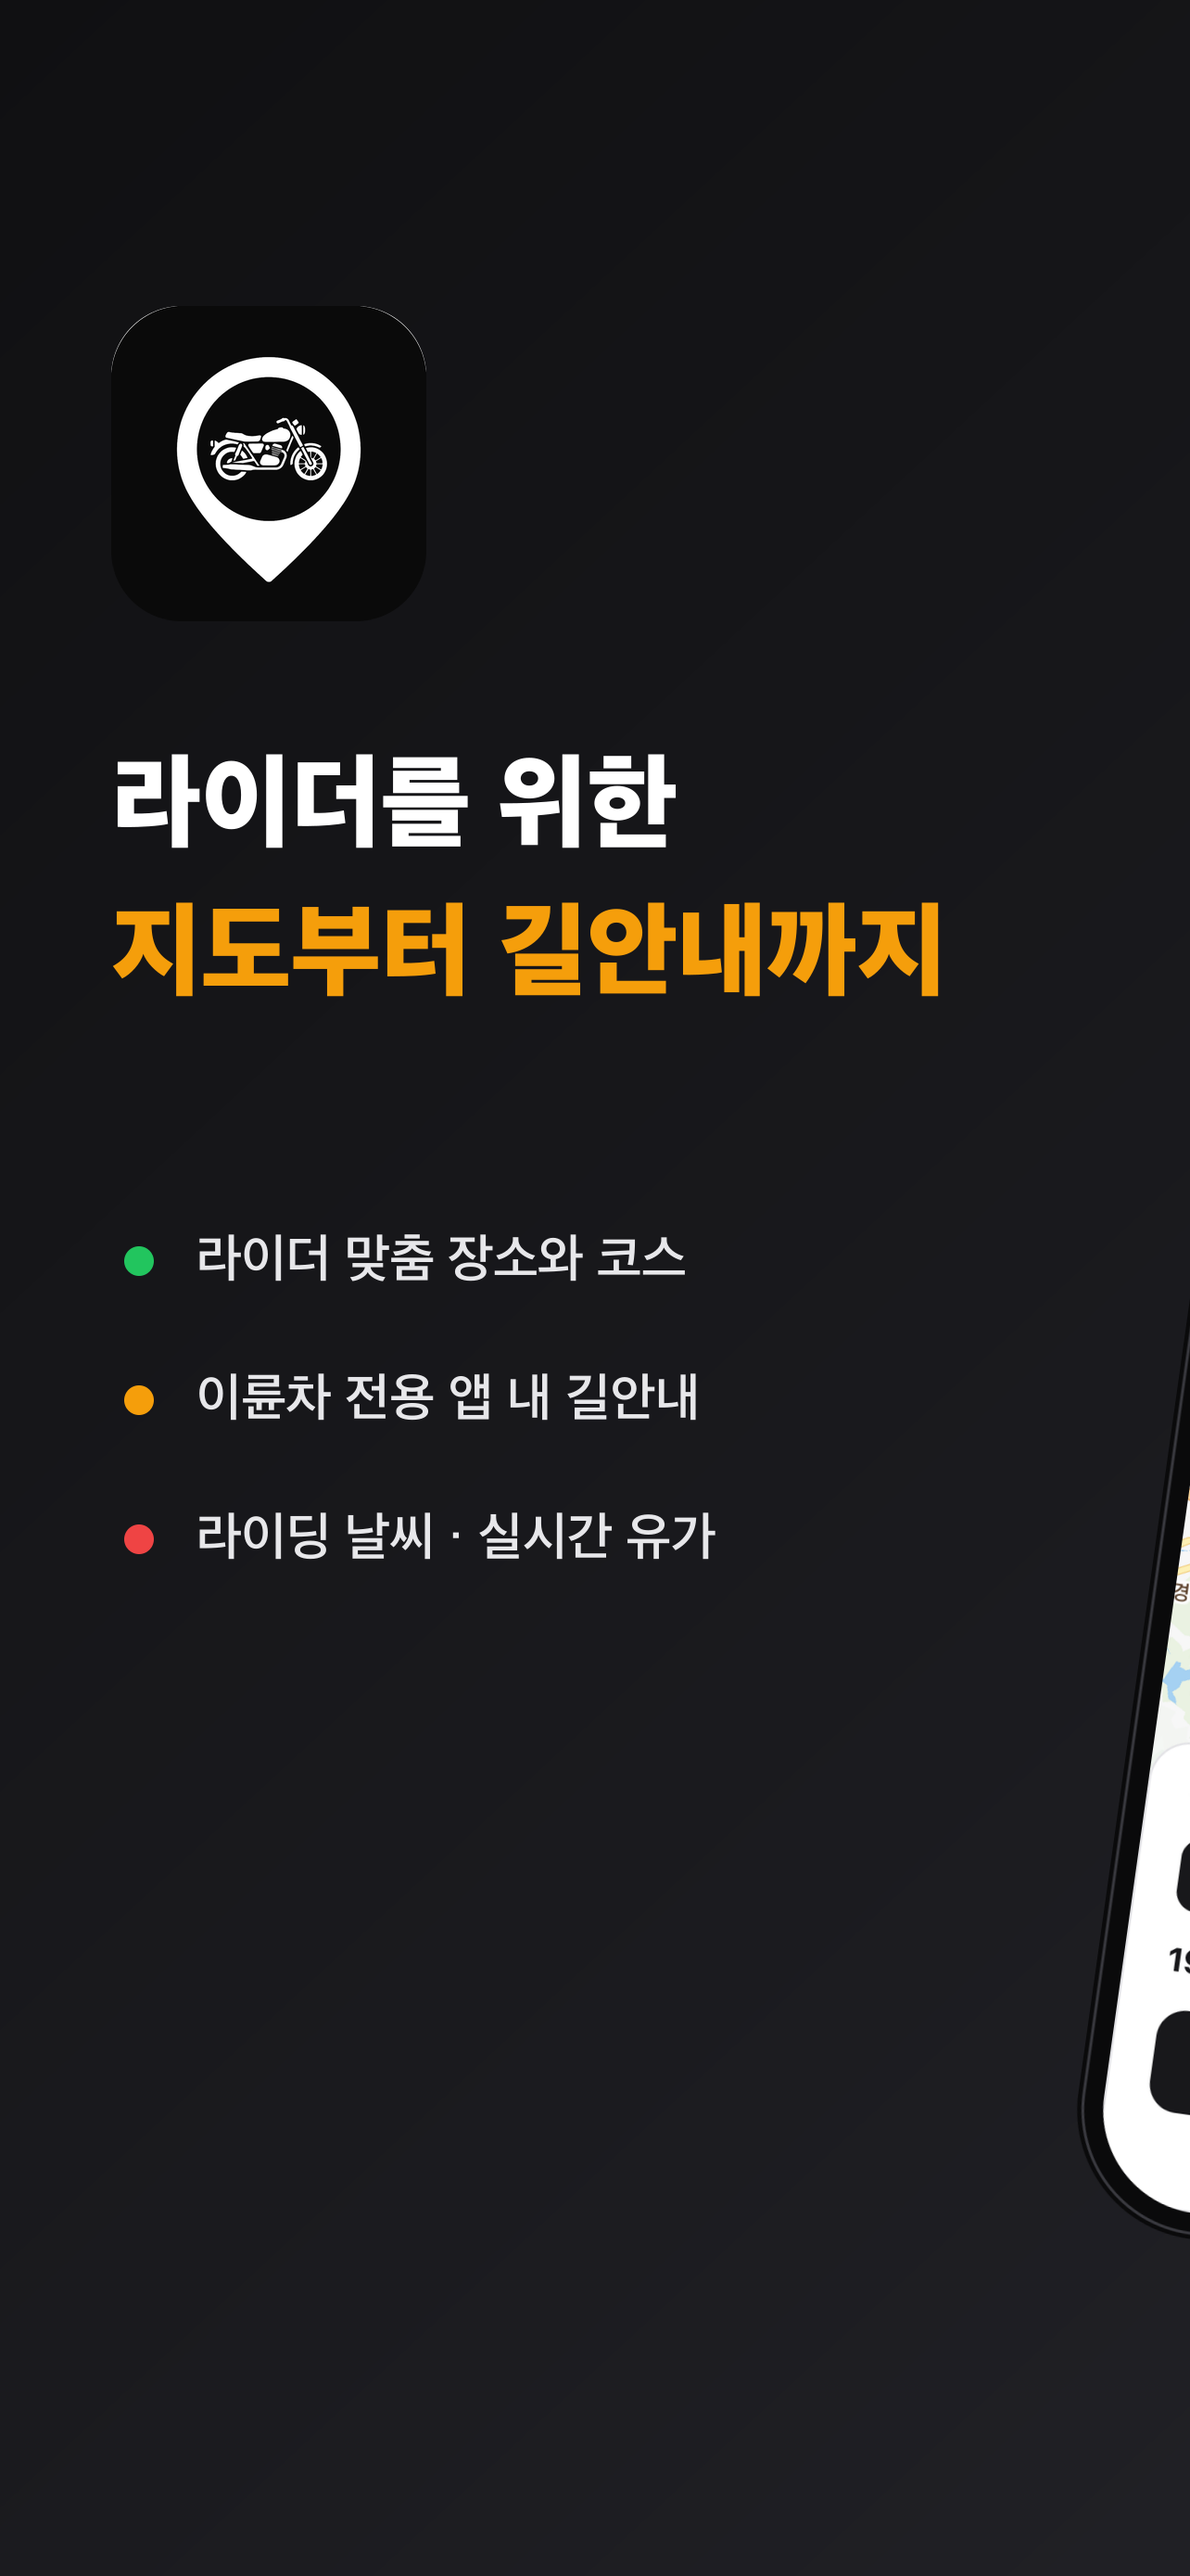
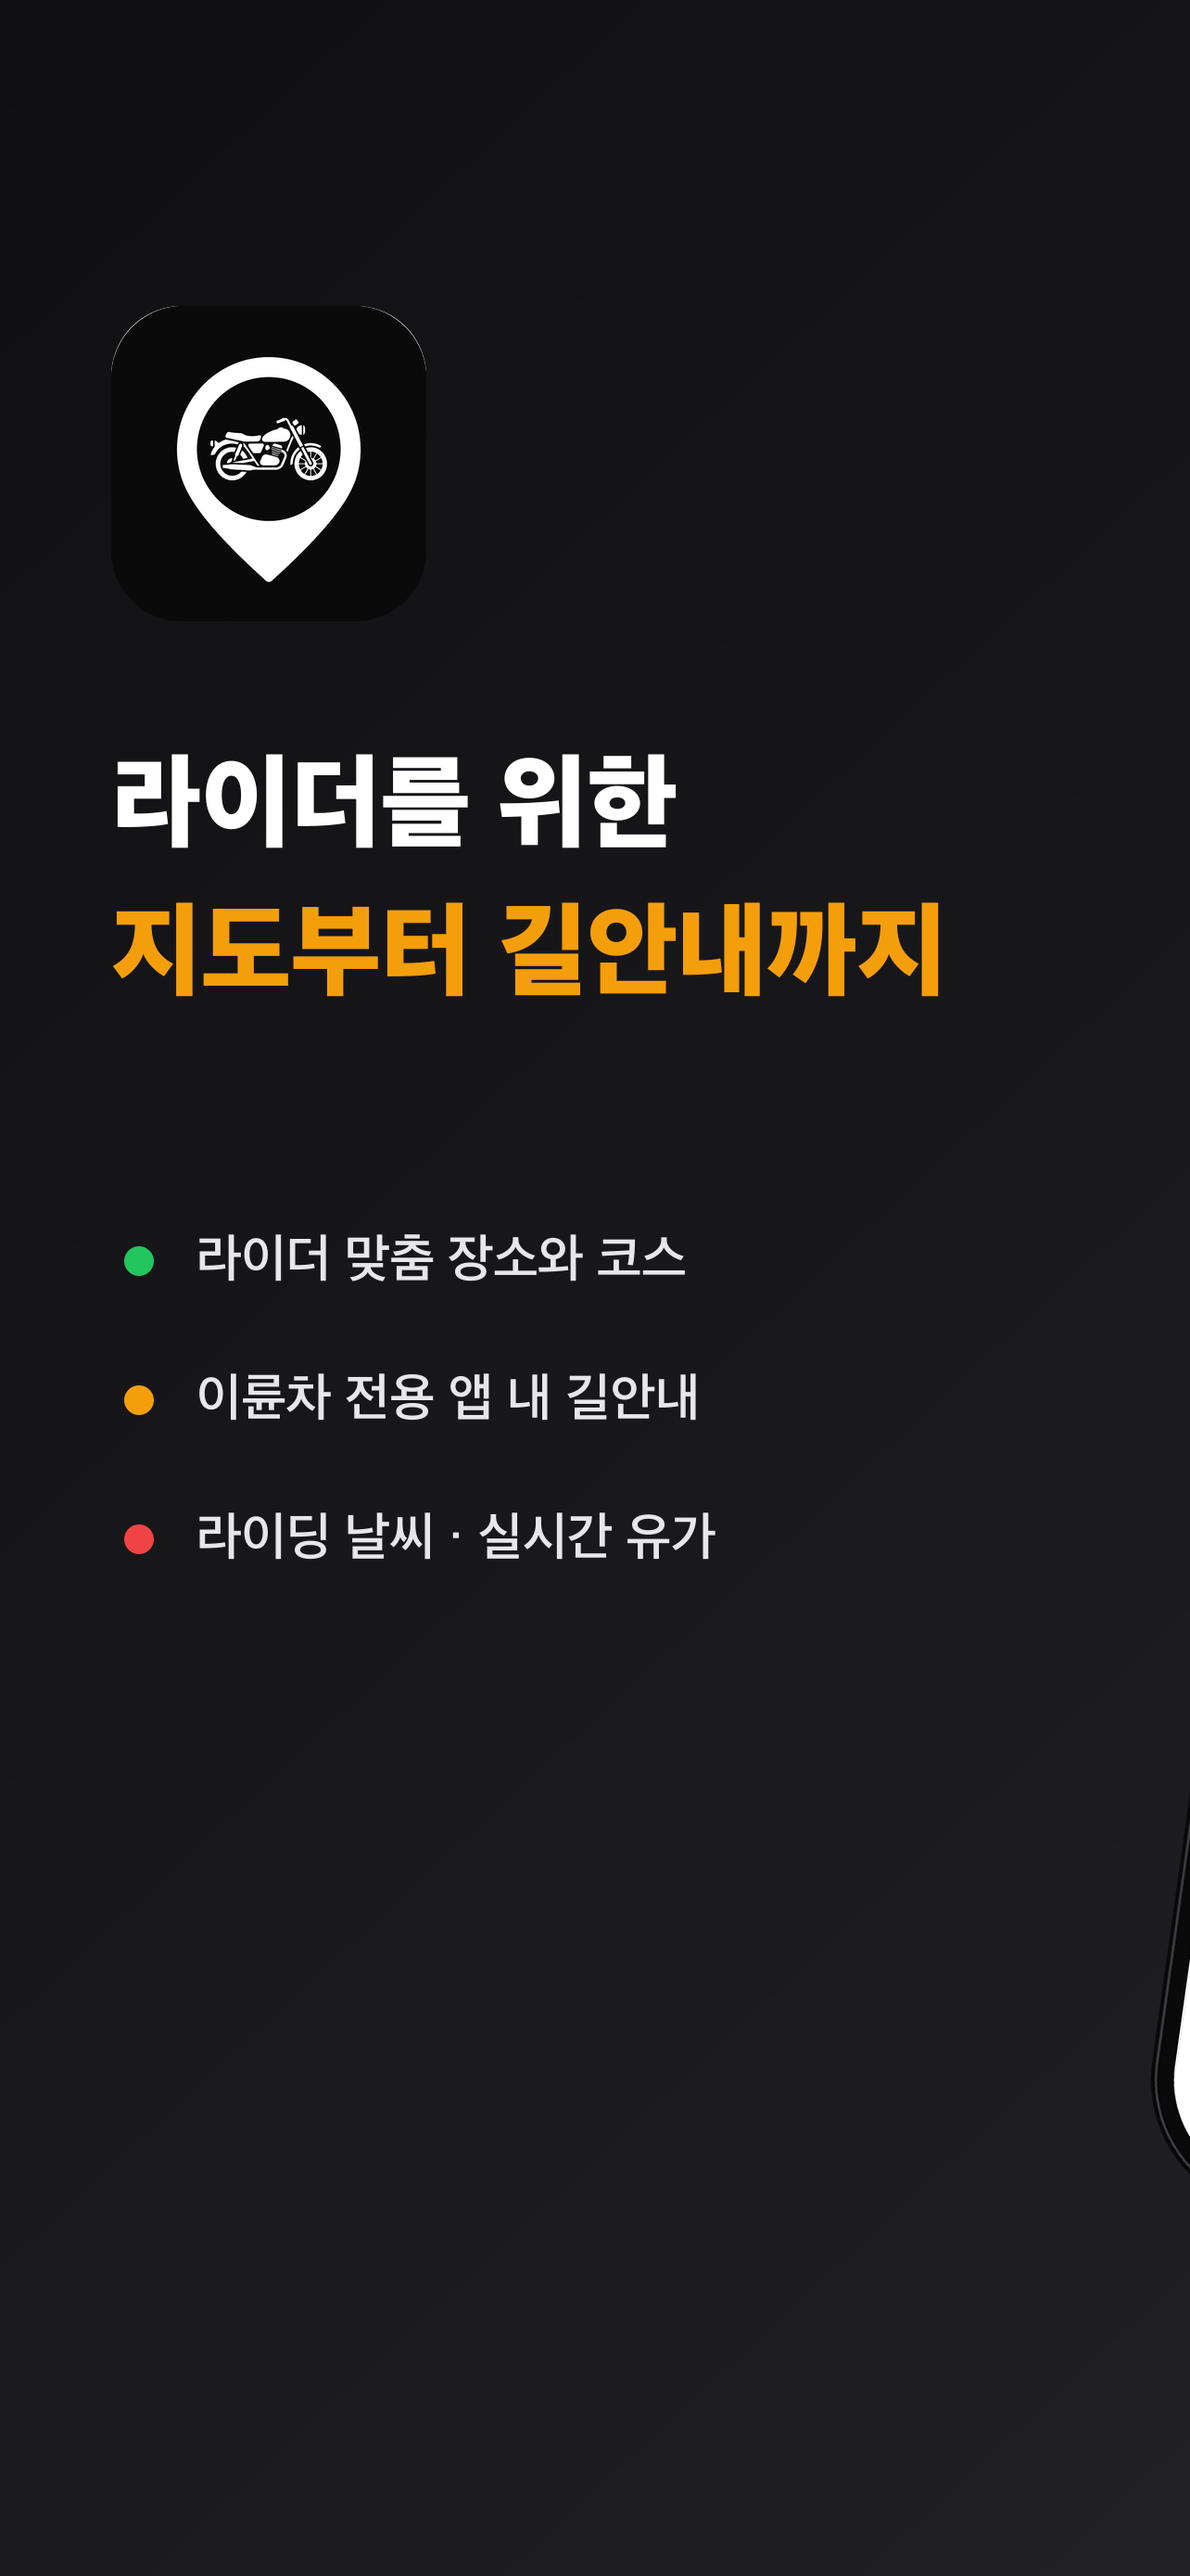
docs: perspective phone mockup with visible side edge
PIL applies a yaw perspective (screen facing the copy) plus a right
side-thickness band before the tilt; sharp lacks perspective warps.

Changed region(s): [[0.9034, 0.5572, 1.0, 0.8668]]

diff --git a/scripts/hero-phone-3d.py b/scripts/hero-phone-3d.py
@@ -1,0 +1,54 @@
+# 평면 폰 목업에 3D 느낌을 입힌다 — 화면을 왼쪽(카피 쪽)으로 살짝 돌린
+# 원근 변환 + 오른쪽 측면 두께 + 기울기. generate-hero.mjs 가 호출한다.
+#   python3 scripts/hero-phone-3d.py <입력 평면 목업> <출력>
+import sys
+from PIL import Image, ImageDraw
+
+
+def find_coeffs(dst, src):
+    """dst 사각형 -> src 사각형 원근 계수 (8원 연립, 가우스 소거)"""
+    a = []
+    b = []
+    for (x, y), (u, v) in zip(dst, src):
+        a.append([x, y, 1, 0, 0, 0, -u * x, -u * y])
+        b.append(u)
+        a.append([0, 0, 0, x, y, 1, -v * x, -v * y])
+        b.append(v)
+    n = 8
+    m = [row[:] + [b[i]] for i, row in enumerate(a)]
+    for col in range(n):
+        pivot = max(range(col, n), key=lambda r: abs(m[r][col]))
+        m[col], m[pivot] = m[pivot], m[col]
+        for r in range(n):
+            if r != col and m[r][col] != 0:
+                f = m[r][col] / m[col][col]
+                for c in range(col, n + 1):
+                    m[r][c] -= f * m[col][c]
+    return [m[i][n] / m[i][i] for i in range(n)]
+
+
+def main():
+    src_path, out_path = sys.argv[1], sys.argv[2]
+    img = Image.open(src_path).convert('RGBA')
+    w, h = img.size
+
+    # 왼쪽 가장자리를 안쪽·위아래로 수축 — 화면이 왼쪽을 향해 돌아간 원근
+    inset_x, inset_y = 74, 48
+    dst = [(inset_x, inset_y), (w, 0), (w, h), (inset_x, h - inset_y)]
+    src = [(0, 0), (w, 0), (w, h), (0, h)]
+    persp = img.transform((w, h), Image.PERSPECTIVE, find_coeffs(dst, src), Image.BICUBIC)
+
+    # 오른쪽 측면 두께 — 폰 뒤에 깔아 가까운 쪽 옆면이 보이게 한다
+    side = 26
+    canvas = Image.new('RGBA', (w + side + 4, h), (0, 0, 0, 0))
+    d = ImageDraw.Draw(canvas)
+    d.rounded_rectangle([w - 16, 4, w + side, h - 4], radius=20, fill=(46, 46, 52, 255))
+    d.rounded_rectangle([w + side - 3, 40, w + side, h - 40], radius=2, fill=(70, 70, 78, 255))
+    canvas.alpha_composite(persp, (0, 0))
+
+    # 살짝 기울이기 (시계 방향 — 좌하단 코너가 가장 왼쪽에 오는 방향)
+    out = canvas.rotate(-8, expand=True, resample=Image.BICUBIC)
+    out.save(out_path)
+
+
+main()
